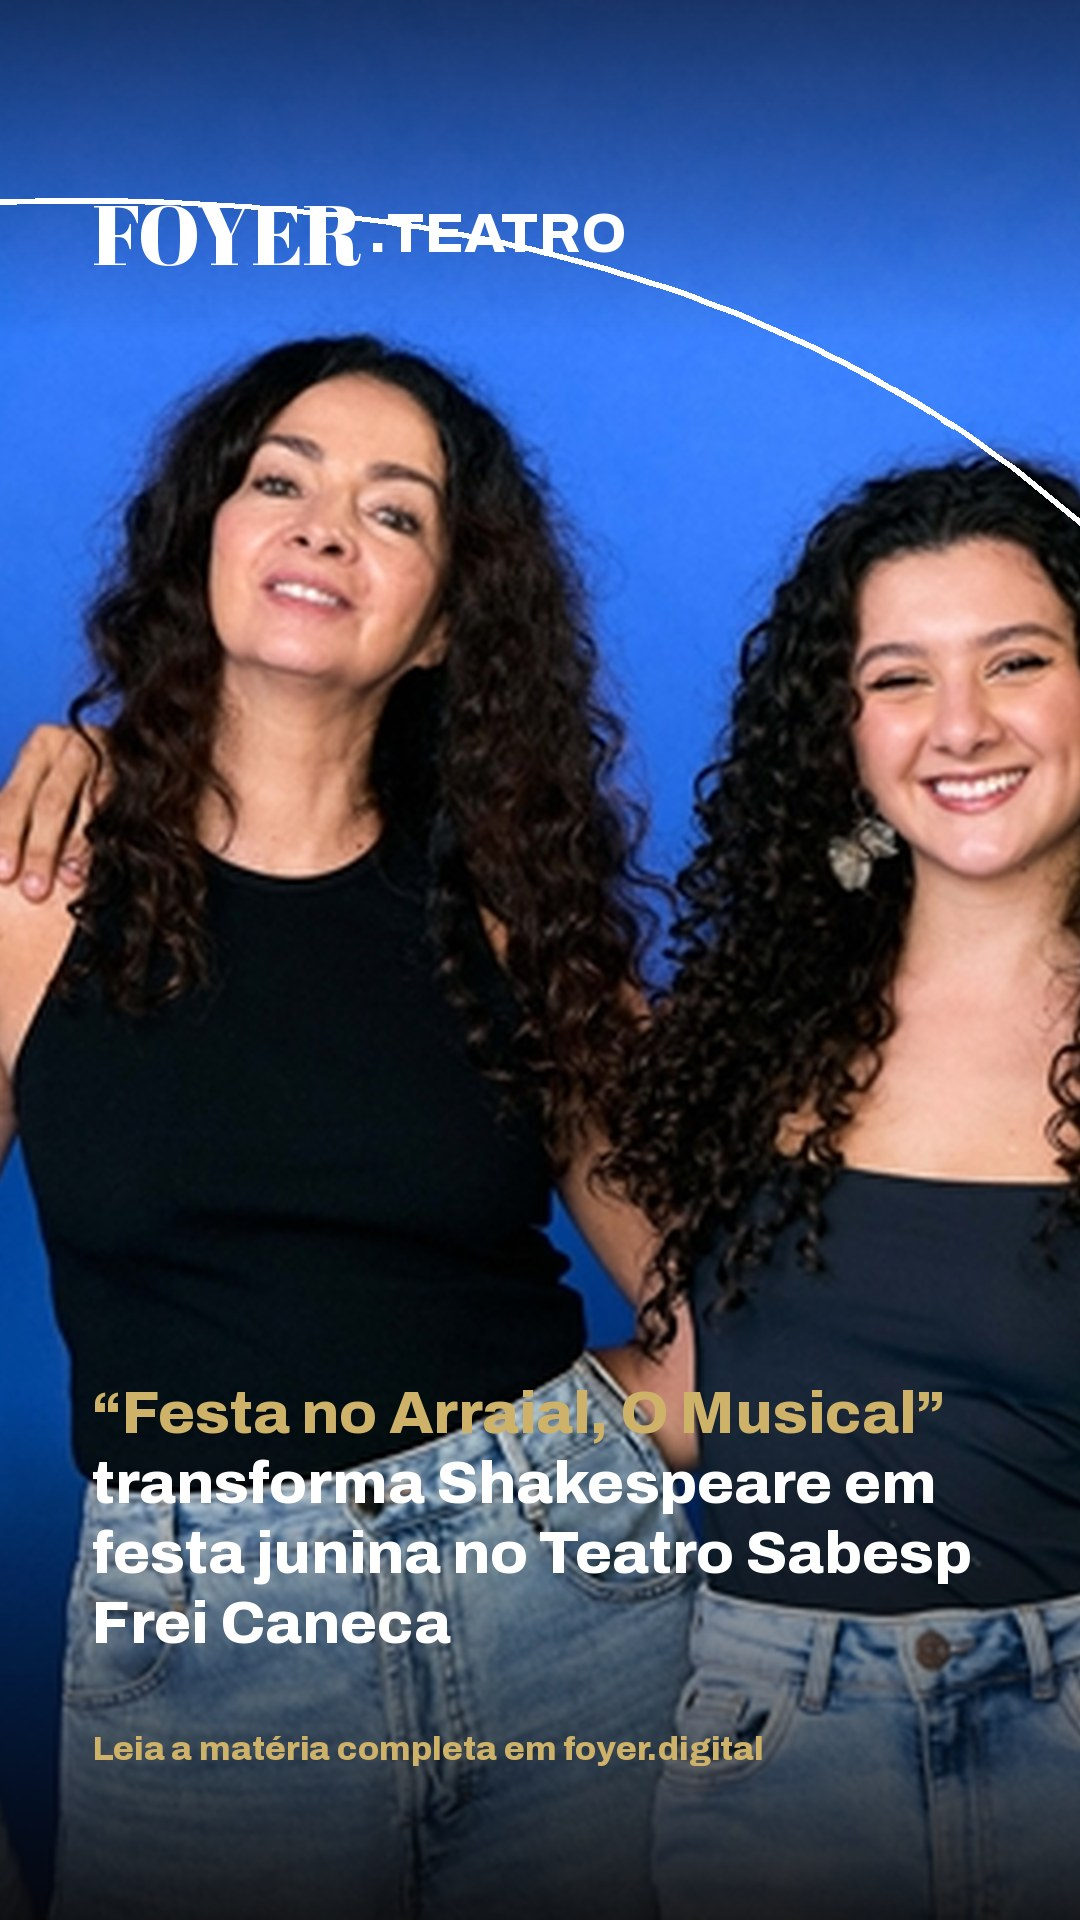
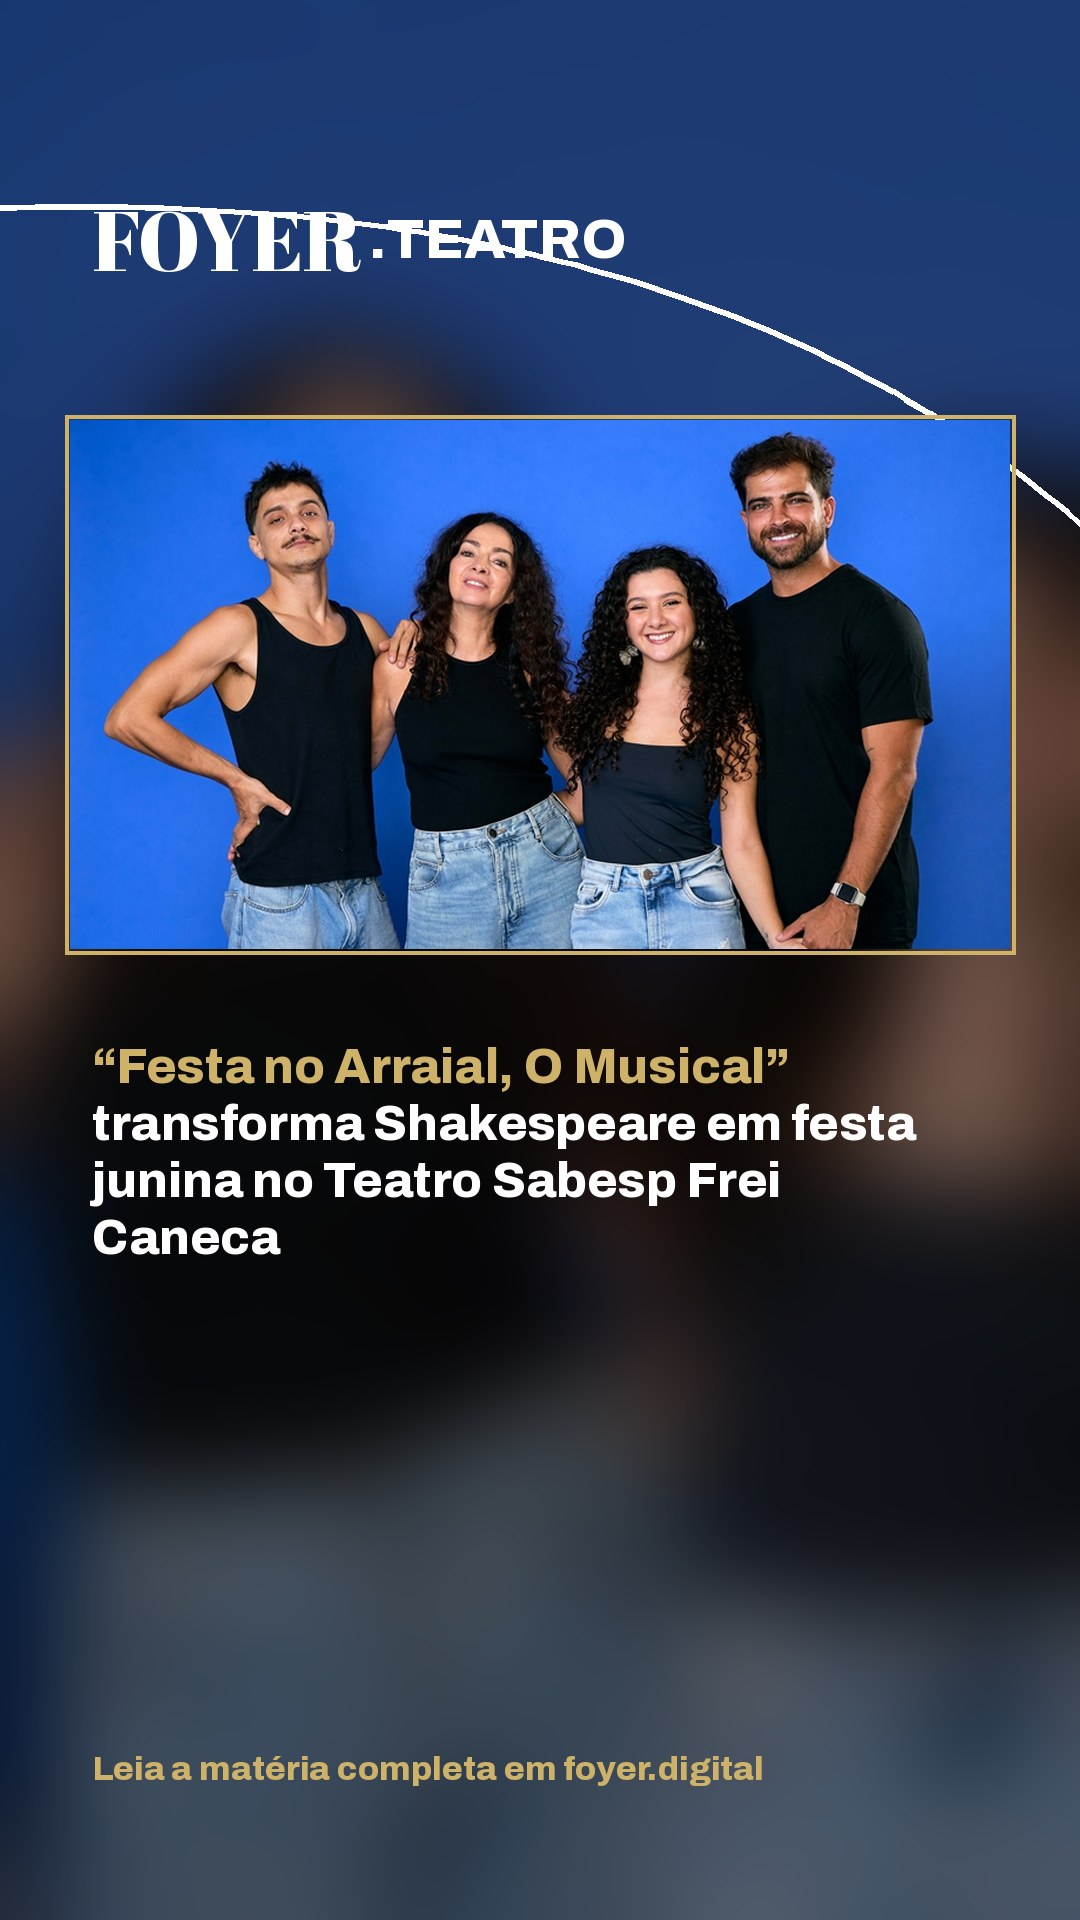
Artes do Instagram: fonte menor, destaque dourado garantido e Stories com a foto intacta emoldurada sobre fundo desfocado

diff --git a/tools/gera_social.py b/tools/gera_social.py
@@ -59,16 +59,42 @@ def _tokens_titulo(pg):
             for w in parte.split():
                 toks.append((w, i % 2 == 1))
         return toks
-    dentro = False
+    dentro, tem_ouro = False, False
     for w in t.split():
         abre = ('“' in w or '"' in w) and not dentro
         if abre:
             dentro = True
         toks.append((w, dentro))
-        if '”' in w or (w.count('"') and not abre) or (abre and w.count('"') == 2) or ('”' in w):
+        if dentro:
+            tem_ouro = True
+        if '”' in w or (w.count('"') and not abre) or (abre and w.count('"') == 2):
             dentro = False
         if abre and ('”' in w or w.rstrip(',.').endswith('"')):
             dentro = False
+    if not tem_ouro:
+        # sempre há um destaque: a maior sequência de nomes próprios do título
+        palavras = [w for w, _ in toks]
+        MIUDAS = {'A', 'O', 'As', 'Os', 'Um', 'Uma', 'De', 'Do', 'Da', 'Dos', 'Das',
+                  'E', 'Em', 'No', 'Na', 'Nos', 'Nas', 'Com', 'Por', 'Para', 'Que'}
+        melhor, atual = (0, 0), None
+        for i, w in enumerate(palavras):
+            limpo = w.strip('“”"\'.,:;!?')
+            proprio = limpo[:1].isupper() and (i > 0) and (limpo not in MIUDAS or atual is not None)
+            if proprio and limpo not in MIUDAS or (atual is not None and limpo in MIUDAS
+                    and i + 1 < len(palavras) and palavras[i + 1].strip('“”"\'.,:;!?')[:1].isupper()
+                    and palavras[i + 1].strip('“”"\'.,:;!?') not in MIUDAS):
+                if atual is None:
+                    atual = i
+            else:
+                if atual is not None and i - atual > melhor[1] - melhor[0]:
+                    melhor = (atual, i)
+                atual = None
+        if atual is not None and len(palavras) - atual > melhor[1] - melhor[0]:
+            melhor = (atual, len(palavras))
+        if melhor[1] > melhor[0]:
+            toks = [(w, melhor[0] <= i < melhor[1]) for i, (w, _) in enumerate(toks)]
+        else:
+            toks = [(w, i < 2) for i, (w, _) in enumerate(toks)]
     return toks
 
 
@@ -119,7 +145,9 @@ def _arco(dr, w, y_ini=138, y_fim=470):
 
 
 def gerar(pg, formato='feed'):
-    w, h = (1080, 1350) if formato == 'feed' else (1080, 1920)
+    if formato == 'story':
+        return _gerar_story(pg)
+    w, h = 1080, 1350
     base = Image.new('RGB', (w, h), (10, 6, 5))
     caminho = os.path.join(ROOT, pg.get('img', ''))
     if pg.get('img') and os.path.exists(caminho):
@@ -128,19 +156,67 @@ def gerar(pg, formato='feed'):
     dr = ImageDraw.Draw(base, 'RGB')
     _gradiente(base, 0, 340, 150, 0)
     _gradiente(base, h - 520, h, 0, 225)
-    _arco(dr, w, y_ini=140 if formato == 'feed' else 190,
-          y_fim=470 if formato == 'feed' else 560)
-    _cabecalho(dr, base, pg.get('cat'), y=130 if formato == 'feed' else 176)
+    _arco(dr, w, y_ini=140, y_fim=470)
+    _cabecalho(dr, base, pg.get('cat'), y=130)
     toks = _tokens_titulo(pg)
-    tam = 62 if formato == 'feed' else 66
+    tam = 52
     n = sum(len(w) for w, _ in toks)
-    if n > 70:
-        tam -= 6
-    margem_baixo = 120 if formato == 'feed' else 260
-    _desenha_titulo(dr, toks, 92, h - margem_baixo, w - 200, tam)
-    if formato == 'story':
-        f_mini = _fonte('Archivo-Bold.ttf', 34)
-        dr.text((92, h - 190), 'Leia a matéria completa em foyer.digital', font=f_mini, fill=OURO)
+    if n > 80:
+        tam -= 5
+    _desenha_titulo(dr, toks, 92, h - 120, w - 200, tam)
+    return base
+
+
+def _gerar_story(pg):
+    """Stories 1080x1920: a foto entra INTEIRA, emoldurada, sobre um fundo
+    feito dela mesma desfocada (nada de esticar a imagem)."""
+    w, h = 1080, 1920
+    base = Image.new('RGB', (w, h), (14, 8, 6))
+    caminho = os.path.join(ROOT, pg.get('img', ''))
+    foto = None
+    if pg.get('img') and os.path.exists(caminho):
+        foto = Image.open(caminho).convert('RGB')
+        fundo = _cover(foto, w, h, foco=0.5).filter(ImageFilter.GaussianBlur(46))
+        escuro = Image.new('RGB', (w, h), (10, 5, 4))
+        base = Image.blend(fundo, escuro, 0.55)
+    dr = ImageDraw.Draw(base, 'RGB')
+    _arco(dr, w, y_ini=196, y_fim=560)
+    _cabecalho(dr, base, pg.get('cat'), y=182)
+    if foto is not None:
+        larg_card = 940
+        alt_card = min(round(larg_card * foto.height / foto.width), 1000)
+        card = _cover(foto, larg_card, alt_card, foco=0.3) if \
+            round(larg_card * foto.height / foto.width) > alt_card else \
+            foto.resize((larg_card, round(larg_card * foto.height / foto.width)), Image.LANCZOS)
+        x0 = (w - larg_card) // 2
+        y0 = 420
+        dr.rectangle((x0 - 5, y0 - 5, x0 + larg_card + 5, y0 + card.height + 5),
+                     outline=OURO, width=4)
+        base.paste(card, (x0, y0))
+        y_texto_topo = y0 + card.height + 90
+    else:
+        y_texto_topo = 760
+    toks = _tokens_titulo(pg)
+    tam = 54
+    if sum(len(t) for t, _ in toks) > 80:
+        tam -= 5
+    f = _fonte('Archivo-Bold.ttf', tam)
+    # desenha do topo do bloco (calcula altura primeiro numa passada seca)
+    dr2 = ImageDraw.Draw(Image.new('RGB', (10, 10)))
+    esp = dr2.textlength(' ', font=f)
+    larg = w - 200
+    linhas, atual, cw = 1, [], 0
+    for t, _ in toks:
+        tw = dr2.textlength(t, font=f)
+        if atual and cw + tw > larg:
+            linhas += 1
+            atual, cw = [], 0
+        atual.append(t)
+        cw += tw + esp
+    alt_bloco = round(tam * 1.16) * linhas
+    _desenha_titulo(dr, toks, 92, min(y_texto_topo + alt_bloco, h - 250), larg, tam)
+    f_mini = _fonte('Archivo-Bold.ttf', 34)
+    dr.text((92, h - 170), 'Leia a matéria completa em foyer.digital', font=f_mini, fill=OURO)
     return base
 
 
